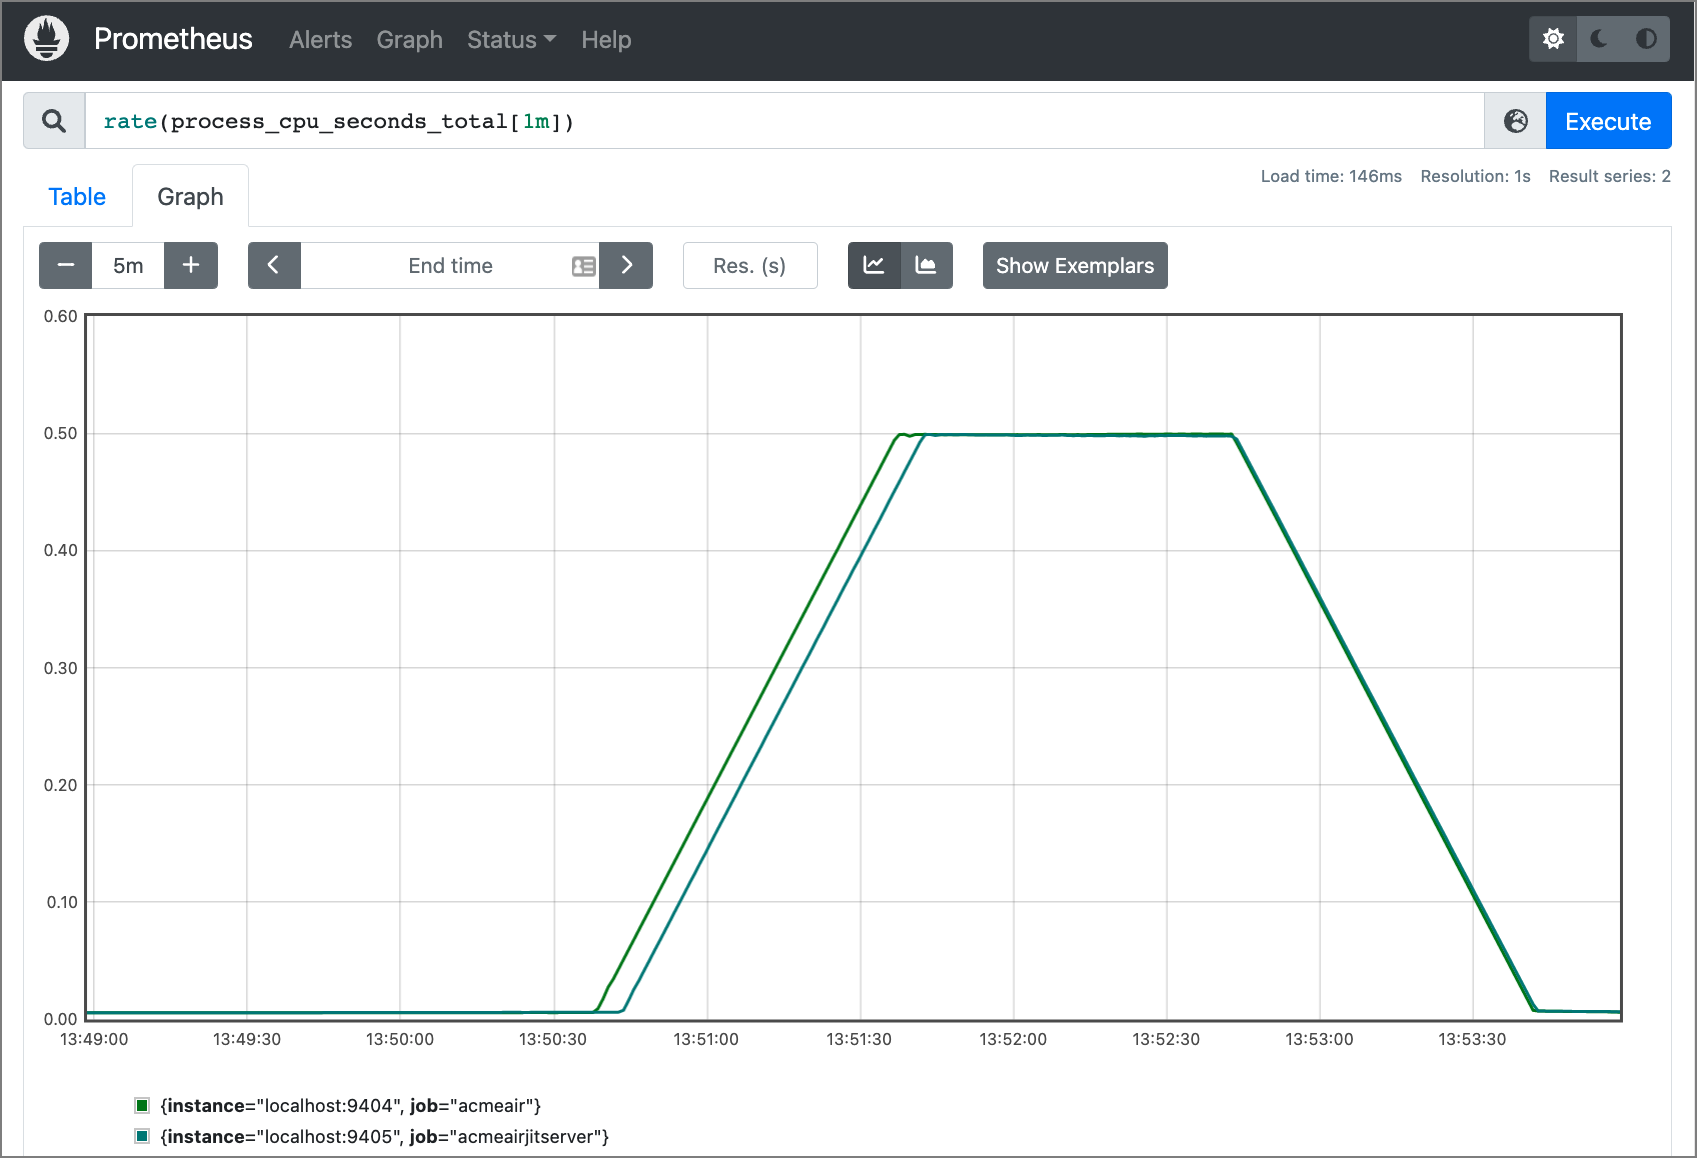
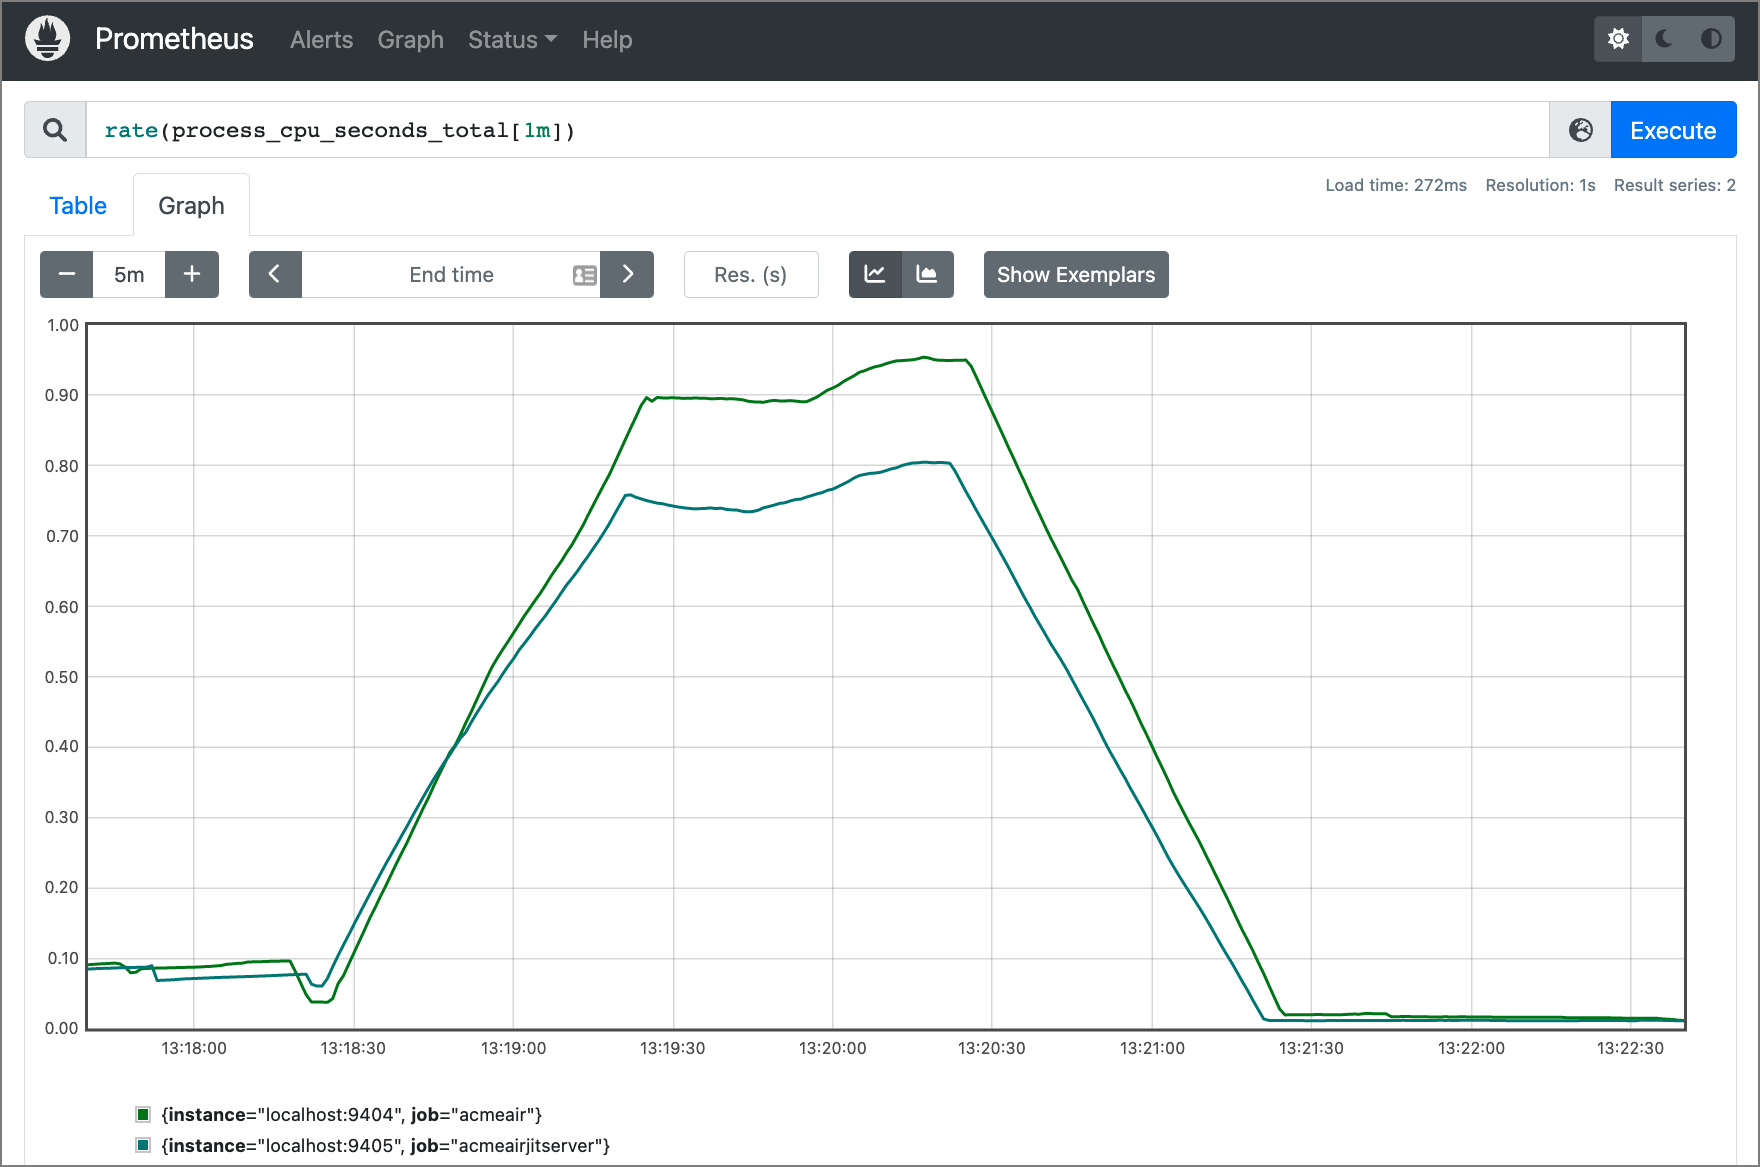
clean up scripts

diff --git a/README.md b/README.md
@@ -1,12 +1,10 @@
-# WORK IN PROGRESS
-
 # Use the Acme Air web app to demonstrate the effectiveness of the Eclipse OpenJ9 JITServer
 
 With the current trend of migrating applications to the cloud, a new set of challenges have emerged - namely related to performance and cost. The article ["JITServer - optimize your Java Cloud Native applications"](https://github.com/rhagarty/jitserver-intro) proposes that the OpenJ9 JITServer is a great solution to address both of these issues. The article states that with the use of the [JITServer](https://www.eclipse.org/openj9/docs/jitserver/) (included with the [Eclipse OpenJ9 JVM](https://www.eclipse.org/openj9/)), it is possible to ensure the high Quality of Service (QoS) that clients demand, while also lowering costs through better use of managed container resources.
 
 In this tutorial, we will test that theory.
 
-The test will consist of running multiple versions of the [AcmeAir](https://github.com/acmeair/acmeair) web application, each running in its own container. One version will be using a standard OpenJ9 JVM with a JIT compiler, and the other will be using a remote container based JITServer.
+The test will consist of running multiple versions of the [AcmeAir](https://github.com/acmeair/acmeair) web application, each running in its own container. One version will be using a standard OpenJ9 JVM with an internal JIT compiler, and the other will be accessing a remote JITServer, running in a separate container.
 
 We will be using [JMeter](https://jmeter.apache.org/) to simulate load on the containers, and [Prometheus](https://prometheus.io/docs/introduction/overview/) to monitor the container metrics.
 
@@ -26,10 +24,11 @@ For our experiment, I provisioned a VM with the following specs:
 1. [Install Prometheus JMX exporter](#4-install-prometheus-jmx-exporter)
 1. [Build images from Dockerfiles](#5-build-images-from-dockerfiles)
 1. [Run images in Docker containers](#6-run-images-in-docker-containers)
-1. [Verify Acme Air web app is running](#7-verify-acme-air-web-app-is-running)
-1. [Configure Prometheus](#8-configure-prometheus)
-1. [Run JMeter to add load to containers](#9-run-jmeter-to-add-load-to-containers)
-1. [Capture metrics in Prometheus](#10-capture-metrics-in-prometheus)
+1. [Verify JITServer is responding](#7-verify-jitserver-is-responding)
+1. [Verify Acme Air web app is running](#8-verify-acme-air-web-app-is-running)
+1. [Configure Prometheus](#9-configure-prometheus)
+1. [Run JMeter to add load to containers](#10-run-jmeter-to-add-load-to-containers)
+1. [Capture metrics in Prometheus](#11-capture-metrics-in-prometheus)
 
 ## 1. Install Prometheus
 
@@ -236,19 +235,19 @@ docker exec -it mongodb mongorestore --drop /AcmeAirDBBackup
 sleep 1
 
 echo "Starting liberty-acmeair"
-docker run --rm -d --network=mynet -m=256m --cpus=".5"  -p 9092:9090 -p 9404:9404 -e JVM_ARGS="-javaagent:/config/jmx_prometheus_javaagent-0.16.1.jar=9404:/config/jmxexporter.yml" --name acmeair liberty-acmeair:openj9_11
+docker run --rm -d --network=mynet -m=256m --cpus="1"  -p 9092:9090 -p 9404:9404 -e JVM_ARGS="-javaagent:/config/jmx_prometheus_javaagent-0.16.1.jar=9404:/config/jmxexporter.yml" --name acmeair liberty-acmeair:openj9_11
 
 sleep 2
 echo "Starting liberty-acmeair with JITServer"
-docker run --rm -d --network=mynet -m=256m --cpus=".5"  -p 9093:9090 -p 9405:9404 -e JVM_ARGS="-javaagent:/config/jmx_prometheus_javaagent-0.16.1.jar=9404:/config/jmxexporter.yml -XX:+UseJITServer -XX:+JITServerLogConnections -XX:JITServerAddress=jitserver -Xjit:verbose={JITServer}" --name acmeair-jitserver liberty-acmeair:openj9_11
+docker run --rm -d --network=mynet -m=256m --cpus="1"  -p 9093:9090 -p 9405:9404 -e JVM_ARGS="-javaagent:/config/jmx_prometheus_javaagent-0.16.1.jar=9404:/config/jmxexporter.yml -XX:+UseJITServer -XX:+JITServerLogConnections -XX:JITServerAddress=jitserver -Xjit:verbose={JITServer}" --name acmeair-jitserver liberty-acmeair:openj9_11
 ```
 
 * All containers will run in the same network - `mynet`. By running on the same Docker network, all containers can address each other by name (eg. `XX:JITServerAddress=jitserver`).
 * The mongodb container (`mongodb`) is started first, and will be accessible by both AcmeAir containers.
 * The first AcmeAir container (`acmeair`) will be started in default mode - using the standard JIT compiler that comes with the OpenJ9 JVM. It will run on port `9092`.
 * The second AcmeAir container (`acmeair-jitserver`) will be configured to access the JITServer container, and will have logging turned on. It will run on port `9093`.
-* Both AcmeAir containers will be run in very constrained containers - each will use a .5 CPU core with 256MB of memory.
-* Both AcmeAir containers will be providing metrics to the Prometheus service via the `JMX exporter` (see [Step #4](#4-install-prometheus-jmx-exporter) for details).
+* Both AcmeAir containers will be constrained - each will be limited to 1 CPU core and 256MB of memory.
+* Both AcmeAir containers will be providing metrics to the Prometheus service via the `JMX exporter` (see [Step #4](#4-install-prometheus-jmx-exporter) for details). The link is specified in the `JVM_ARGS` using the `javaagent` argument.
 * `acmeair` will forward metrics using port `9404`, and `acmeair-jitserver` will use port `9405`.
 
 >**NOTE**: the container accessing the JITServer uses `JVM_ARGS` to specify the connection. For a full list of JVM args associated with the JITServer, check out the [Eclipse OpenJ9 documentation](https://www.eclipse.org/openj9/docs/xx_jvm_commands/).
@@ -264,20 +263,46 @@ CONTAINER ID   PORTS                                            NAMES
 1b2855d329a1   0.0.0.0:38400->38400/tcp                         jitserver
 ```
 
-Each container should be set up for logging:
+>**NOTE**: If a container fails to start, the container and its log file will be deleted because the "`--rm`" flag is set when running the container. To view the logs of your failed container, remove this flag and re-run the appropriate run script.
+
+## 7. Verify JITServer is responding
+
+We can examine our logs to verify that our `jitserver` container is handling compile requests from our `acmeair-jitserver` container:
 
 ```bash
 $ docker logs jitserver
 #JITServer: JITServer version: 1.34.0
 #JITServer: JITServer Server Mode. Port: 38400. Connection Timeout 30000ms
-#JITServer: Started JITServer listener thread: 0000000002379400
+#JITServer: Started JITServer listener thread: 00000000017E7400
 
 JITServer is ready to accept incoming requests
+#JITServer: Server received request for stream 00007F36D0285B40
+#JITServer: t= 13733 A new client (clientUID=9265077818891624809) connected. Server allocated a new client session.
+#JITServer: compThreadID=0 created clientSessionData=00007F3640F70010 for clientUID=9265077818891624809 seqNo=1 (isCritical=1) (criticalSeqNo=0 lastProcessedCriticalReq=0)
+#JITServer: compThreadID=0 will ask for address ranges of unloaded classes and CHTable for clientUID 9265077818891624809
+#JITServer: compThreadID=0 will initialize CHTable for clientUID 9265077818891624809 size=7960
+#JITServer: compThreadID=0 has successfully compiled java/lang/Double.longBitsToDouble(J)D memoryState=2
+#JITServer: compThreadID=0 found clientSessionData=00007F3640F70010 for clientUID=9265077818891624809 seqNo=2 (isCritical=1) (criticalSeqNo=1 lastProcessedCriticalReq=1)
 ```
 
->**NOTE**: If a container fails to start, the container and its log file will be deleted because the "`--rm`" flag is set when running the container. To view the logs of your failed container, remove this flag and re-run the appropriate run script.
+```bash
+$ docker logs acmeair-jitserver
+#JITServer: JITServer version: 1.34.0
+#JITServer: JITServer Client Mode. Server address: jitserver port: 38400. Connection Timeout 10000ms
+#JITServer: Identifier for current client JVM: 9265077818891624809
 
-## 7. Verify Acme Air web app is running
+#INFO:  StartTime: Mar 29 12:28:08 2022
+#INFO:  Free Physical Memory: 239 MB
+#INFO:  CPU entitlement = 400.00
+#JITServer: Client sending compReq seqNo=1 to server for method java/lang/Double.longBitsToDouble(J)D @ cold.
+#JITServer: t=     0 Connected to a server (serverUID=9873666039581424421)
+#JITServer: Client successfully loaded method java/lang/Double.longBitsToDouble(J)D @ cold following compilation request. [metaData=00007F9069AC4338, startPC=00007F908A5B253C]
+#JITServer: Client sending compReq seqNo=2 to server for method jdk/internal/reflect/Reflection.getCallerClass()Ljava/lang/Class; @ cold.
+#JITServer: Client successfully loaded method jdk/internal/reflect/Reflection.getCallerClass()Ljava/lang/Class; @ cold following compilation request. [metaData=00007F9069AC95B8, startPC=00007F908A5BA21C]
+#JITServer: Client sending compReq seqNo=3 to server for method java/lang/System.getSysPropBeforePropertiesInitialized(I)Ljava/lang/String; @ cold.
+```
+
+## 8. Verify Acme Air web app is running
 
 Once your containers are running, you should be able to access the Acme Air web page using the URL `http://<host-ip>:9092/acmeair-webapp/`. Port `9092` will point to the `acmeair` container, and port `9093` will point to the `acmeair-jitserver` container.
 
@@ -285,7 +310,7 @@ Once your containers are running, you should be able to access the Acme Air web 
 
 >**NOTE**: The route name `acmeair-webapp` is defined in the server.xml file found in the `/LibertyContext/LibertyFiles` directory.
 
-## 8. Configure Prometheus
+## 9. Configure Prometheus
 
 Now that all the containers are running, we need to configure Prometheus to monitor our containers - referred to as `targets`.
 
@@ -329,7 +354,7 @@ On the `Targets` panel, you should see both of the `Acme Air` containers listed.
 
 ![prometheus-targets](doc/source/images/prometheus-targets.png)
 
-## 9. Run JMeter to add load to containers
+## 10. Run JMeter to add load to containers
 
 The last piece of the puzzle is running the JMeter container to simulate load on the AcmeAir containers. It does this by flooding the AcmeAir applications with HTTP requests.
 
@@ -347,16 +372,29 @@ Both will use 2 threads and run for 2 minutes. One will send requests to port `9
 
 When running the JMeter containers, it is best to run them simultaneously by starting each in a separate terminal window.
 
-## 10. Capture metrics in Prometheus
+## 11. Capture metrics in Prometheus
 
 Now return to the Prometheus UI and see what the metrics show.
 
-Using the metric `process_virtual_memory_bytes`, we can see that the container that used the JITServer used less memory, and did not suffer the wild spikes shown for the container that does not have access to the JITServer.
+Using the metric `process_virtual_memory_bytes`, we can see that the container that used the JITServer used less memory, and did not suffer the wild spikes shown for the non-JITServer container:
 
 ![prometheus-memory](doc/source/images/prometheus-memory.png)
 
-Here we use the metric `rate(process_cpu_seconds_total[1m])` to show CPU utilization.
-
-<TODO THIS IS A BAD GRAPH>
+Here we use the metric `rate(process_cpu_seconds_total[1m])` to show CPU utilization. Here we see that the Acme Air container using the JITServer utilized less CPU:
 
 ![prometheus-cpu](doc/source/images/prometheus-cpu.png)
+
+## Summary
+
+In this tutorial, we stepped through the process of setting up an experiment to determine what effects using the Eclipse OpenJ9 JITServer has on container resources.
+
+The experiment consisted of the following components:
+
+* Prometheus to graph metric data
+* JMX Exporter to push application metrics to Prometheus
+* Docker for building our images and containers
+* JMeter to simulate network load
+* The Acme Air benchmark web application to test against
+* Eclipse OpenJ9 JITServer to operate as a remote JIT compiler
+
+In the end, using the Prometheus monitoring tool we were able to conclude that a web application using the JITServer utilized less container resources than the same application using a standard JVM JIT compiler.
